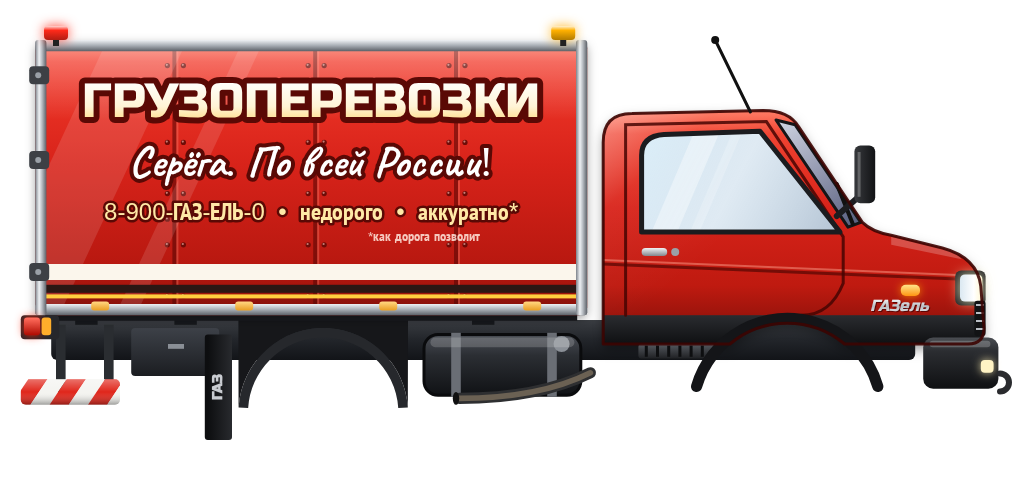
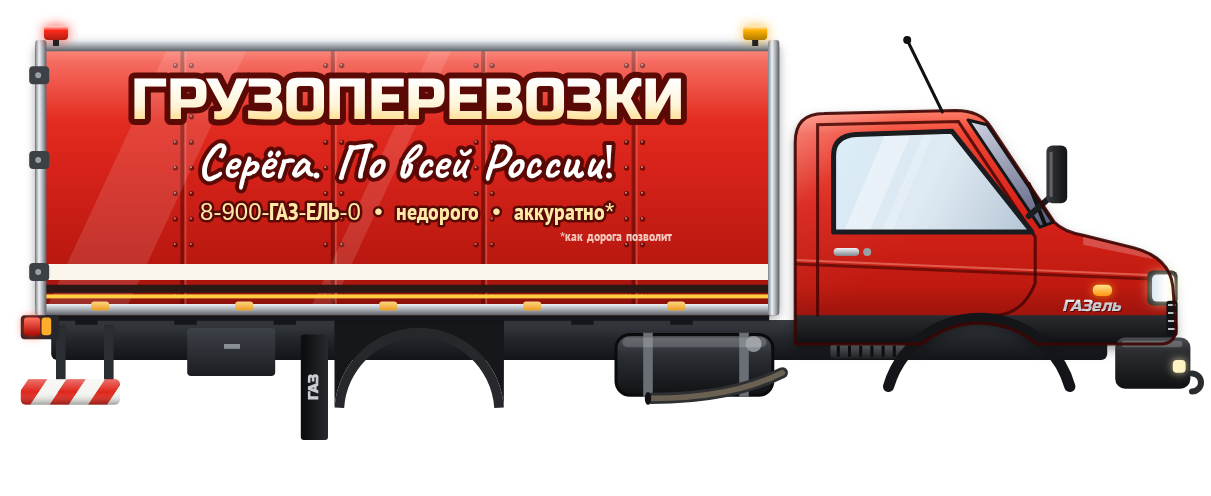
Газель с удлинённой базой: база 3,5 м, будка 4,65 м
Перерисован кузов и будка, обновлены физика (база, центр масс, корпус),
тюнинг, двери будки, сцены меню и гаража.

Claude-Session: https://claude.ai/code/session_015LMUnpRZnpEUypr75sENmz

diff --git a/js/assetmeta.js b/js/assetmeta.js
@@ -1,1 +1,1 @@
-window.ASSET_META = {"truck_body":{"file":"img/truck_body.png","w":1019,"h":496,"ppm":160,"ax":523.2,"ay":472,"geo":{"wheelR":0.37,"rearX":-1.25,"frontX":1.65,"wheelY":0.37,"boxX0":-3.05,"boxX1":0.4,"boxY0":0.98,"boxY1":2.7,"head":[1.18,1.8],"exhaust":[-0.48,0.46],"hingeX":-3.05}},"truck_interior":{"file":"img/truck_interior.png","w":1019,"h":496,"ppm":160,"ax":523.2,"ay":472},"wheel":{"file":"img/wheel.png","w":256,"h":256,"r":125},"wheel_chrome":{"file":"img/wheel_chrome.png","w":256,"h":256,"r":125},"door":{"file":"img/door.png","w":150,"h":276,"ppm":160},"serega_norm":{"file":"img/serega_norm.png","w":240,"h":240,"size":240},"serega_happy":{"file":"img/serega_happy.png","w":240,"h":240,"size":240},"serega_scared":{"file":"img/serega_scared.png","w":240,"h":240,"size":240},"serega_dizzy":{"file":"img/serega_dizzy.png","w":240,"h":240,"size":240},"serega_cool":{"file":"img/serega_cool.png","w":240,"h":240,"size":240},"it_watermelon":{"file":"img/it_watermelon.png","w":160,"h":160,"s":160},"it_eggs":{"file":"img/it_eggs.png","w":160,"h":160,"s":160},"it_egg":{"file":"img/it_egg.png","w":160,"h":160,"s":160},"it_fridge":{"file":"img/it_fridge.png","w":160,"h":160,"s":160},"it_honey":{"file":"img/it_honey.png","w":160,"h":160,"s":160},"it_box":{"file":"img/it_box.png","w":160,"h":160,"s":160},"it_carpet":{"file":"img/it_carpet.png","w":160,"h":160,"s":160},"it_sack":{"file":"img/it_sack.png","w":160,"h":160,"s":160},"it_potato":{"file":"img/it_potato.png","w":160,"h":160,"s":160},"it_accordion":{"file":"img/it_accordion.png","w":160,"h":160,"s":160},"it_firtree":{"file":"img/it_firtree.png","w":160,"h":160,"s":160},"it_fish":{"file":"img/it_fish.png","w":160,"h":160,"s":160},"it_samovar":{"file":"img/it_samovar.png","w":160,"h":160,"s":160},"it_pickles":{"file":"img/it_pickles.png","w":160,"h":160,"s":160},"it_tv":{"file":"img/it_tv.png","w":160,"h":160,"s":160},"it_canister":{"file":"img/it_canister.png","w":160,"h":160,"s":160},"it_coin":{"file":"img/it_coin.png","w":160,"h":160,"s":160},"it_wrench":{"file":"img/it_wrench.png","w":160,"h":160,"s":160},"it_cheburek":{"file":"img/it_cheburek.png","w":160,"h":160,"s":160},"it_magnet":{"file":"img/it_magnet.png","w":160,"h":160,"s":160},"it_cat0":{"file":"img/it_cat0.png","w":160,"h":160,"s":160},"it_cat1":{"file":"img/it_cat1.png","w":160,"h":160,"s":160},"it_goose0":{"file":"img/it_goose0.png","w":160,"h":160,"s":160},"it_goose1":{"file":"img/it_goose1.png","w":160,"h":160,"s":160},"cow0":{"file":"img/cow0.png","w":310,"h":185,"ppm":100,"ax":155,"ay":179},"cow1":{"file":"img/cow1.png","w":310,"h":185,"ppm":100,"ax":155,"ay":179},"cow2":{"file":"img/cow2.png","w":310,"h":185,"ppm":100,"ax":155,"ay":179},"cow3":{"file":"img/cow3.png","w":310,"h":185,"ppm":100,"ax":155,"ay":179},"gai0":{"file":"img/gai0.png","w":150,"h":200,"ppm":100,"ax":75,"ay":194},"gai1":{"file":"img/gai1.png","w":150,"h":200,"ppm":100,"ax":75,"ay":194},"dpscar":{"file":"img/dpscar.png","w":430,"h":170,"ppm":100,"ax":215,"ay":164},"booth":{"file":"img/booth.png","w":270,"h":245,"ppm":100,"ax":135,"ay":239},"moose0":{"file":"img/moose0.png","w":340,"h":270,"ppm":100,"ax":170,"ay":264},"moose1":{"file":"img/moose1.png","w":340,"h":270,"ppm":100,"ax":170,"ay":264},"moose2":{"file":"img/moose2.png","w":340,"h":270,"ppm":100,"ax":170,"ay":264},"bear0":{"file":"img/bear0.png","w":180,"h":225,"ppm":100,"ax":90,"ay":219},"bear1":{"file":"img/bear1.png","w":180,"h":225,"ppm":100,"ax":90,"ay":219},"dog0":{"file":"img/dog0.png","w":140,"h":85,"ppm":100,"ax":70,"ay":79},"dog1":{"file":"img/dog1.png","w":140,"h":85,"ppm":100,"ax":70,"ay":79},"babushka0":{"file":"img/babushka0.png","w":130,"h":165,"ppm":100,"ax":65,"ay":159},"babushka1":{"file":"img/babushka1.png","w":130,"h":165,"ppm":100,"ax":65,"ay":159},"sign_speed":{"file":"img/sign_speed.png","w":100,"h":270,"ppm":100,"ax":50,"ay":264},"sign_bumps":{"file":"img/sign_bumps.png","w":110,"h":270,"ppm":100,"ax":55,"ay":264},"sign_animals":{"file":"img/sign_animals.png","w":110,"h":270,"ppm":100,"ax":55,"ay":264},"sign_cow":{"file":"img/sign_cow.png","w":110,"h":270,"ppm":100,"ax":55,"ay":264},"sign_works":{"file":"img/sign_works.png","w":110,"h":270,"ppm":100,"ax":55,"ay":264},"sign_gas":{"file":"img/sign_gas.png","w":90,"h":270,"ppm":100,"ax":45,"ay":264},"kmpost":{"file":"img/kmpost.png","w":40,"h":110,"ppm":100,"ax":20,"ay":104},"city_sign":{"file":"img/city_sign.png","w":280,"h":250,"ppm":100,"ax":140,"ay":244},"warehouse":{"file":"img/warehouse.png","w":1100,"h":630,"ppm":100,"ax":550,"ay":624},"azs":{"file":"img/azs.png","w":1020,"h":480,"ppm":100,"ax":510,"ay":474},"cafe":{"file":"img/cafe.png","w":700,"h":410,"ppm":100,"ax":350,"ay":404},"busstop":{"file":"img/busstop.png","w":340,"h":280,"ppm":100,"ax":170,"ay":274},"ad_tire":{"file":"img/ad_tire.png","w":490,"h":520,"ppm":100,"ax":245,"ay":514},"ad_shashlik":{"file":"img/ad_shashlik.png","w":490,"h":520,"ppm":100,"ax":245,"ay":514},"ad_garage":{"file":"img/ad_garage.png","w":490,"h":520,"ppm":100,"ax":245,"ay":514},"ad_luda":{"file":"img/ad_luda.png","w":490,"h":520,"ppm":100,"ax":245,"ay":514},"ad_honey":{"file":"img/ad_honey.png","w":490,"h":520,"ppm":100,"ax":245,"ay":514},"ad_gazel":{"file":"img/ad_gazel.png","w":490,"h":520,"ppm":100,"ax":245,"ay":514},"ad_motel":{"file":"img/ad_motel.png","w":490,"h":520,"ppm":100,"ax":245,"ay":514},"ad_coffee":{"file":"img/ad_coffee.png","w":490,"h":520,"ppm":100,"ax":245,"ay":514},"cone":{"file":"img/cone.png","w":60,"h":85,"ppm":100,"ax":30,"ay":79},"logs":{"file":"img/logs.png","w":260,"h":95,"ppm":100,"ax":130,"ay":89},"rock":{"file":"img/rock.png","w":170,"h":85,"ppm":100,"ax":85,"ay":79},"ramp_sign":{"file":"img/ramp_sign.png","w":180,"h":125,"ppm":100,"ax":90,"ay":119},"barrier":{"file":"img/barrier.png","w":400,"h":90,"ppm":100,"ax":200,"ay":84},"bridge_rail":{"file":"img/bridge_rail.png","w":400,"h":120,"ppm":100,"ax":200,"ay":114},"bridge_pillar":{"file":"img/bridge_pillar.png","w":180,"h":620,"ppm":100,"ax":90,"ay":614},"tower":{"file":"img/tower.png","w":340,"h":930,"ppm":100,"ax":170,"ay":924},"grass_summer":{"file":"img/grass_summer.png","w":512,"h":96,"n":4},"grass_autumn":{"file":"img/grass_autumn.png","w":512,"h":96,"n":4},"grass_dry":{"file":"img/grass_dry.png","w":512,"h":96,"n":4},"grass_snow":{"file":"img/grass_snow.png","w":512,"h":96,"n":4},"grass_ural":{"file":"img/grass_ural.png","w":512,"h":96,"n":4},"bg_summer_far":{"file":"img/bg_summer_far.jpg","w":2048,"h":768,"horizon":0.72},"bg_summer_mid":{"file":"img/bg_summer_mid.png","w":2048,"h":512},"bg_summer_near":{"file":"img/bg_summer_near.png","w":2048,"h":320},"thumb_summer":{"file":"img/thumb_summer.jpg","w":400,"h":225},"bg_volga_far":{"file":"img/bg_volga_far.jpg","w":2048,"h":768,"horizon":0.72},"bg_volga_mid":{"file":"img/bg_volga_mid.png","w":2048,"h":512},"bg_volga_near":{"file":"img/bg_volga_near.png","w":2048,"h":320},"thumb_volga":{"file":"img/thumb_volga.jpg","w":400,"h":225},"bg_ural_far":{"file":"img/bg_ural_far.jpg","w":2048,"h":768,"horizon":0.72},"bg_ural_mid":{"file":"img/bg_ural_mid.png","w":2048,"h":512},"bg_ural_near":{"file":"img/bg_ural_near.png","w":2048,"h":320},"thumb_ural":{"file":"img/thumb_ural.jpg","w":400,"h":225},"bg_steppe_far":{"file":"img/bg_steppe_far.jpg","w":2048,"h":768,"horizon":0.72},"bg_steppe_mid":{"file":"img/bg_steppe_mid.png","w":2048,"h":512},"bg_steppe_near":{"file":"img/bg_steppe_near.png","w":2048,"h":320},"thumb_steppe":{"file":"img/thumb_steppe.jpg","w":400,"h":225},"bg_taiga_far":{"file":"img/bg_taiga_far.jpg","w":2048,"h":768,"horizon":0.72},"bg_taiga_mid":{"file":"img/bg_taiga_mid.png","w":2048,"h":512},"bg_taiga_near":{"file":"img/bg_taiga_near.png","w":2048,"h":320},"thumb_taiga":{"file":"img/thumb_taiga.jpg","w":400,"h":225},"bg_baikal_far":{"file":"img/bg_baikal_far.jpg","w":2048,"h":768,"horizon":0.72},"bg_baikal_mid":{"file":"img/bg_baikal_mid.png","w":2048,"h":512},"bg_baikal_near":{"file":"img/bg_baikal_near.png","w":2048,"h":320},"thumb_baikal":{"file":"img/thumb_baikal.jpg","w":400,"h":225},"bg_primorye_far":{"file":"img/bg_primorye_far.jpg","w":2048,"h":768,"horizon":0.72},"bg_primorye_mid":{"file":"img/bg_primorye_mid.png","w":2048,"h":512},"bg_primorye_near":{"file":"img/bg_primorye_near.png","w":2048,"h":320},"thumb_primorye":{"file":"img/thumb_primorye.jpg","w":400,"h":225},"tex_soil":{"file":"img/tex_soil.jpg","w":512,"h":512},"tex_clay":{"file":"img/tex_clay.jpg","w":512,"h":512},"tex_rock":{"file":"img/tex_rock.jpg","w":512,"h":512},"tex_sand":{"file":"img/tex_sand.jpg","w":512,"h":512},"tex_snow":{"file":"img/tex_snow.jpg","w":512,"h":512},"tex_asphalt":{"file":"img/tex_asphalt.jpg","w":512,"h":512},"tex_dirt":{"file":"img/tex_dirt.jpg","w":512,"h":512},"tex_snowroad":{"file":"img/tex_snowroad.jpg","w":512,"h":512},"tex_ice":{"file":"img/tex_ice.jpg","w":512,"h":512},"tex_mud":{"file":"img/tex_mud.jpg","w":512,"h":512},"logo":{"file":"img/logo.png","w":1100,"h":520},"pedal_gas":{"file":"img/pedal_gas.png","w":200,"h":320},"pedal_brake":{"file":"img/pedal_brake.png","w":240,"h":260},"paper":{"file":"img/paper.jpg","w":512,"h":512},"stamp_ok":{"file":"img/stamp_ok.png","w":420,"h":200},"stamp_fail":{"file":"img/stamp_fail.png","w":420,"h":200},"stamp_final":{"file":"img/stamp_final.png","w":420,"h":200}};
+window.ASSET_META = {"truck_body":{"file":"img/truck_body.png","w":1211,"h":496,"ppm":160,"ax":715.2,"ay":472,"geo":{"wheelR":0.37,"rearX":-1.85,"frontX":1.65,"wheelY":0.37,"boxX0":-4.25,"boxX1":0.4,"boxY0":0.98,"boxY1":2.7,"head":[1.18,1.8],"exhaust":[-0.48,0.46],"hingeX":-4.25}},"truck_interior":{"file":"img/truck_interior.png","w":1211,"h":496,"ppm":160,"ax":715.2,"ay":472},"wheel":{"file":"img/wheel.png","w":256,"h":256,"r":125},"wheel_chrome":{"file":"img/wheel_chrome.png","w":256,"h":256,"r":125},"door":{"file":"img/door.png","w":150,"h":276,"ppm":160},"serega_norm":{"file":"img/serega_norm.png","w":240,"h":240,"size":240},"serega_happy":{"file":"img/serega_happy.png","w":240,"h":240,"size":240},"serega_scared":{"file":"img/serega_scared.png","w":240,"h":240,"size":240},"serega_dizzy":{"file":"img/serega_dizzy.png","w":240,"h":240,"size":240},"serega_cool":{"file":"img/serega_cool.png","w":240,"h":240,"size":240},"it_watermelon":{"file":"img/it_watermelon.png","w":160,"h":160,"s":160},"it_eggs":{"file":"img/it_eggs.png","w":160,"h":160,"s":160},"it_egg":{"file":"img/it_egg.png","w":160,"h":160,"s":160},"it_fridge":{"file":"img/it_fridge.png","w":160,"h":160,"s":160},"it_honey":{"file":"img/it_honey.png","w":160,"h":160,"s":160},"it_box":{"file":"img/it_box.png","w":160,"h":160,"s":160},"it_carpet":{"file":"img/it_carpet.png","w":160,"h":160,"s":160},"it_sack":{"file":"img/it_sack.png","w":160,"h":160,"s":160},"it_potato":{"file":"img/it_potato.png","w":160,"h":160,"s":160},"it_accordion":{"file":"img/it_accordion.png","w":160,"h":160,"s":160},"it_firtree":{"file":"img/it_firtree.png","w":160,"h":160,"s":160},"it_fish":{"file":"img/it_fish.png","w":160,"h":160,"s":160},"it_samovar":{"file":"img/it_samovar.png","w":160,"h":160,"s":160},"it_pickles":{"file":"img/it_pickles.png","w":160,"h":160,"s":160},"it_tv":{"file":"img/it_tv.png","w":160,"h":160,"s":160},"it_canister":{"file":"img/it_canister.png","w":160,"h":160,"s":160},"it_coin":{"file":"img/it_coin.png","w":160,"h":160,"s":160},"it_wrench":{"file":"img/it_wrench.png","w":160,"h":160,"s":160},"it_cheburek":{"file":"img/it_cheburek.png","w":160,"h":160,"s":160},"it_magnet":{"file":"img/it_magnet.png","w":160,"h":160,"s":160},"it_cat0":{"file":"img/it_cat0.png","w":160,"h":160,"s":160},"it_cat1":{"file":"img/it_cat1.png","w":160,"h":160,"s":160},"it_goose0":{"file":"img/it_goose0.png","w":160,"h":160,"s":160},"it_goose1":{"file":"img/it_goose1.png","w":160,"h":160,"s":160},"cow0":{"file":"img/cow0.png","w":310,"h":185,"ppm":100,"ax":155,"ay":179},"cow1":{"file":"img/cow1.png","w":310,"h":185,"ppm":100,"ax":155,"ay":179},"cow2":{"file":"img/cow2.png","w":310,"h":185,"ppm":100,"ax":155,"ay":179},"cow3":{"file":"img/cow3.png","w":310,"h":185,"ppm":100,"ax":155,"ay":179},"gai0":{"file":"img/gai0.png","w":150,"h":200,"ppm":100,"ax":75,"ay":194},"gai1":{"file":"img/gai1.png","w":150,"h":200,"ppm":100,"ax":75,"ay":194},"dpscar":{"file":"img/dpscar.png","w":430,"h":170,"ppm":100,"ax":215,"ay":164},"booth":{"file":"img/booth.png","w":270,"h":245,"ppm":100,"ax":135,"ay":239},"moose0":{"file":"img/moose0.png","w":340,"h":270,"ppm":100,"ax":170,"ay":264},"moose1":{"file":"img/moose1.png","w":340,"h":270,"ppm":100,"ax":170,"ay":264},"moose2":{"file":"img/moose2.png","w":340,"h":270,"ppm":100,"ax":170,"ay":264},"bear0":{"file":"img/bear0.png","w":180,"h":225,"ppm":100,"ax":90,"ay":219},"bear1":{"file":"img/bear1.png","w":180,"h":225,"ppm":100,"ax":90,"ay":219},"dog0":{"file":"img/dog0.png","w":140,"h":85,"ppm":100,"ax":70,"ay":79},"dog1":{"file":"img/dog1.png","w":140,"h":85,"ppm":100,"ax":70,"ay":79},"babushka0":{"file":"img/babushka0.png","w":130,"h":165,"ppm":100,"ax":65,"ay":159},"babushka1":{"file":"img/babushka1.png","w":130,"h":165,"ppm":100,"ax":65,"ay":159},"sign_speed":{"file":"img/sign_speed.png","w":100,"h":270,"ppm":100,"ax":50,"ay":264},"sign_bumps":{"file":"img/sign_bumps.png","w":110,"h":270,"ppm":100,"ax":55,"ay":264},"sign_animals":{"file":"img/sign_animals.png","w":110,"h":270,"ppm":100,"ax":55,"ay":264},"sign_cow":{"file":"img/sign_cow.png","w":110,"h":270,"ppm":100,"ax":55,"ay":264},"sign_works":{"file":"img/sign_works.png","w":110,"h":270,"ppm":100,"ax":55,"ay":264},"sign_gas":{"file":"img/sign_gas.png","w":90,"h":270,"ppm":100,"ax":45,"ay":264},"kmpost":{"file":"img/kmpost.png","w":40,"h":110,"ppm":100,"ax":20,"ay":104},"city_sign":{"file":"img/city_sign.png","w":280,"h":250,"ppm":100,"ax":140,"ay":244},"warehouse":{"file":"img/warehouse.png","w":1100,"h":630,"ppm":100,"ax":550,"ay":624},"azs":{"file":"img/azs.png","w":1020,"h":480,"ppm":100,"ax":510,"ay":474},"cafe":{"file":"img/cafe.png","w":700,"h":410,"ppm":100,"ax":350,"ay":404},"busstop":{"file":"img/busstop.png","w":340,"h":280,"ppm":100,"ax":170,"ay":274},"ad_tire":{"file":"img/ad_tire.png","w":490,"h":520,"ppm":100,"ax":245,"ay":514},"ad_shashlik":{"file":"img/ad_shashlik.png","w":490,"h":520,"ppm":100,"ax":245,"ay":514},"ad_garage":{"file":"img/ad_garage.png","w":490,"h":520,"ppm":100,"ax":245,"ay":514},"ad_luda":{"file":"img/ad_luda.png","w":490,"h":520,"ppm":100,"ax":245,"ay":514},"ad_honey":{"file":"img/ad_honey.png","w":490,"h":520,"ppm":100,"ax":245,"ay":514},"ad_gazel":{"file":"img/ad_gazel.png","w":490,"h":520,"ppm":100,"ax":245,"ay":514},"ad_motel":{"file":"img/ad_motel.png","w":490,"h":520,"ppm":100,"ax":245,"ay":514},"ad_coffee":{"file":"img/ad_coffee.png","w":490,"h":520,"ppm":100,"ax":245,"ay":514},"cone":{"file":"img/cone.png","w":60,"h":85,"ppm":100,"ax":30,"ay":79},"logs":{"file":"img/logs.png","w":260,"h":95,"ppm":100,"ax":130,"ay":89},"rock":{"file":"img/rock.png","w":170,"h":85,"ppm":100,"ax":85,"ay":79},"ramp_sign":{"file":"img/ramp_sign.png","w":180,"h":125,"ppm":100,"ax":90,"ay":119},"barrier":{"file":"img/barrier.png","w":400,"h":90,"ppm":100,"ax":200,"ay":84},"bridge_rail":{"file":"img/bridge_rail.png","w":400,"h":120,"ppm":100,"ax":200,"ay":114},"bridge_pillar":{"file":"img/bridge_pillar.png","w":180,"h":620,"ppm":100,"ax":90,"ay":614},"tower":{"file":"img/tower.png","w":340,"h":930,"ppm":100,"ax":170,"ay":924},"grass_summer":{"file":"img/grass_summer.png","w":512,"h":96,"n":4},"grass_autumn":{"file":"img/grass_autumn.png","w":512,"h":96,"n":4},"grass_dry":{"file":"img/grass_dry.png","w":512,"h":96,"n":4},"grass_snow":{"file":"img/grass_snow.png","w":512,"h":96,"n":4},"grass_ural":{"file":"img/grass_ural.png","w":512,"h":96,"n":4},"bg_summer_far":{"file":"img/bg_summer_far.jpg","w":2048,"h":768,"horizon":0.72},"bg_summer_mid":{"file":"img/bg_summer_mid.png","w":2048,"h":512},"bg_summer_near":{"file":"img/bg_summer_near.png","w":2048,"h":320},"thumb_summer":{"file":"img/thumb_summer.jpg","w":400,"h":225},"bg_volga_far":{"file":"img/bg_volga_far.jpg","w":2048,"h":768,"horizon":0.72},"bg_volga_mid":{"file":"img/bg_volga_mid.png","w":2048,"h":512},"bg_volga_near":{"file":"img/bg_volga_near.png","w":2048,"h":320},"thumb_volga":{"file":"img/thumb_volga.jpg","w":400,"h":225},"bg_ural_far":{"file":"img/bg_ural_far.jpg","w":2048,"h":768,"horizon":0.72},"bg_ural_mid":{"file":"img/bg_ural_mid.png","w":2048,"h":512},"bg_ural_near":{"file":"img/bg_ural_near.png","w":2048,"h":320},"thumb_ural":{"file":"img/thumb_ural.jpg","w":400,"h":225},"bg_steppe_far":{"file":"img/bg_steppe_far.jpg","w":2048,"h":768,"horizon":0.72},"bg_steppe_mid":{"file":"img/bg_steppe_mid.png","w":2048,"h":512},"bg_steppe_near":{"file":"img/bg_steppe_near.png","w":2048,"h":320},"thumb_steppe":{"file":"img/thumb_steppe.jpg","w":400,"h":225},"bg_taiga_far":{"file":"img/bg_taiga_far.jpg","w":2048,"h":768,"horizon":0.72},"bg_taiga_mid":{"file":"img/bg_taiga_mid.png","w":2048,"h":512},"bg_taiga_near":{"file":"img/bg_taiga_near.png","w":2048,"h":320},"thumb_taiga":{"file":"img/thumb_taiga.jpg","w":400,"h":225},"bg_baikal_far":{"file":"img/bg_baikal_far.jpg","w":2048,"h":768,"horizon":0.72},"bg_baikal_mid":{"file":"img/bg_baikal_mid.png","w":2048,"h":512},"bg_baikal_near":{"file":"img/bg_baikal_near.png","w":2048,"h":320},"thumb_baikal":{"file":"img/thumb_baikal.jpg","w":400,"h":225},"bg_primorye_far":{"file":"img/bg_primorye_far.jpg","w":2048,"h":768,"horizon":0.72},"bg_primorye_mid":{"file":"img/bg_primorye_mid.png","w":2048,"h":512},"bg_primorye_near":{"file":"img/bg_primorye_near.png","w":2048,"h":320},"thumb_primorye":{"file":"img/thumb_primorye.jpg","w":400,"h":225},"tex_soil":{"file":"img/tex_soil.jpg","w":512,"h":512},"tex_clay":{"file":"img/tex_clay.jpg","w":512,"h":512},"tex_rock":{"file":"img/tex_rock.jpg","w":512,"h":512},"tex_sand":{"file":"img/tex_sand.jpg","w":512,"h":512},"tex_snow":{"file":"img/tex_snow.jpg","w":512,"h":512},"tex_asphalt":{"file":"img/tex_asphalt.jpg","w":512,"h":512},"tex_dirt":{"file":"img/tex_dirt.jpg","w":512,"h":512},"tex_snowroad":{"file":"img/tex_snowroad.jpg","w":512,"h":512},"tex_ice":{"file":"img/tex_ice.jpg","w":512,"h":512},"tex_mud":{"file":"img/tex_mud.jpg","w":512,"h":512},"logo":{"file":"img/logo.png","w":1100,"h":520},"pedal_gas":{"file":"img/pedal_gas.png","w":200,"h":320},"pedal_brake":{"file":"img/pedal_brake.png","w":240,"h":260},"paper":{"file":"img/paper.jpg","w":512,"h":512},"stamp_ok":{"file":"img/stamp_ok.png","w":420,"h":200},"stamp_fail":{"file":"img/stamp_fail.png","w":420,"h":200},"stamp_final":{"file":"img/stamp_final.png","w":420,"h":200}};

diff --git a/tools/art/truck.js b/tools/art/truck.js
@@ -1,14 +1,14 @@
 // Красная Газель с красной будкой: кузов, салон, колёса, двери, Серёга
 'use strict';
-const TK = { P: 160, M: 24, X0: -3.12, X1: 2.95, Y1: 2.80 };
+const TK = { P: 160, M: 24, X0: -4.32, X1: 2.95, Y1: 2.80 };
 TK.W = Math.round((TK.X1 - TK.X0) * TK.P + TK.M * 2);
 TK.H = Math.round(TK.Y1 * TK.P + TK.M * 2);
 TK.ax = TK.M - TK.X0 * TK.P; TK.ay = TK.M + TK.Y1 * TK.P;   // пиксель точки (0,0) — земля под началом координат
 const tx = x => TK.ax + x * TK.P, ty = y => TK.ay - y * TK.P, tp = (x, y) => [tx(x), ty(y)];
 const GEO = {
-  wheelR: 0.37, rearX: -1.25, frontX: 1.65, wheelY: 0.37,
-  boxX0: -3.05, boxX1: 0.40, boxY0: 0.98, boxY1: 2.70,
-  head: [1.18, 1.80], exhaust: [-0.48, 0.46], hingeX: -3.05
+  wheelR: 0.37, rearX: -1.85, frontX: 1.65, wheelY: 0.37,
+  boxX0: -4.25, boxX1: 0.40, boxY0: 0.98, boxY1: 2.70,
+  head: [1.18, 1.80], exhaust: [-0.48, 0.46], hingeX: -4.25
 };
 const RED = '#d8231a', RED_L = '#ff5a44', RED_D = '#8a120c';
 
@@ -53,14 +53,14 @@ function drawTruckBody(ctx, opt) {
   const P = TK.P;
   // ---------- рама ----------
   ctx.fillStyle = lg(ctx, 0, ty(0.95), 0, ty(0.70), [[0, '#3a3d42'], [0.5, '#22252a'], [1, '#121418']]);
-  rrect(ctx, tx(-2.95), ty(0.95), (2.45 + 2.95) * P, 0.25 * P, 6); ctx.fill();
-  for (let x = -2.8; x < 0.3; x += 0.62) { ctx.fillStyle = '#16181c'; ctx.fillRect(tx(x), ty(1.0), 0.14 * P, 0.08 * P); }
+  rrect(ctx, tx(-4.15), ty(0.95), (2.45 + 4.15) * P, 0.25 * P, 6); ctx.fill();
+  for (let x = -4.0; x < 0.3; x += 0.62) { ctx.fillStyle = '#16181c'; ctx.fillRect(tx(x), ty(1.0), 0.14 * P, 0.08 * P); }
   // заднее противоподкатное — полосатое
-  ctx.fillStyle = '#2a2d31'; ctx.fillRect(tx(-2.92), ty(0.92), 0.06 * P, 0.42 * P); ctx.fillRect(tx(-2.62), ty(0.92), 0.06 * P, 0.42 * P);
-  ctx.save(); rrect(ctx, tx(-3.14), ty(0.58), 0.62 * P, 0.16 * P, 5); ctx.clip();
-  for (let i = 0; i < 8; i++) { ctx.fillStyle = i % 2 ? '#f4f4f0' : '#e0261b'; poly(ctx, [[tx(-3.2 + i * 0.12), ty(0.42)], [tx(-3.2 + i * 0.12 + 0.12), ty(0.42)], [tx(-3.2 + i * 0.12 + 0.24), ty(0.6)], [tx(-3.2 + i * 0.12 + 0.12), ty(0.6)]]); ctx.fill(); }
+  ctx.fillStyle = '#2a2d31'; ctx.fillRect(tx(-4.12), ty(0.92), 0.06 * P, 0.42 * P); ctx.fillRect(tx(-3.82), ty(0.92), 0.06 * P, 0.42 * P);
+  ctx.save(); rrect(ctx, tx(-4.34), ty(0.58), 0.62 * P, 0.16 * P, 5); ctx.clip();
+  for (let i = 0; i < 8; i++) { ctx.fillStyle = i % 2 ? '#f4f4f0' : '#e0261b'; poly(ctx, [[tx(-4.4 + i * 0.12), ty(0.42)], [tx(-4.4 + i * 0.12 + 0.12), ty(0.42)], [tx(-4.4 + i * 0.12 + 0.24), ty(0.6)], [tx(-4.4 + i * 0.12 + 0.12), ty(0.6)]]); ctx.fill(); }
   ctx.fillStyle = lg(ctx, 0, ty(0.58), 0, ty(0.42), [[0, 'rgba(255,255,255,.35)'], [0.5, 'rgba(255,255,255,0)'], [1, 'rgba(0,0,0,.35)']]);
-  ctx.fillRect(tx(-3.2), ty(0.6), P, 0.2 * P); ctx.restore();
+  ctx.fillRect(tx(-4.4), ty(0.6), P, 0.2 * P); ctx.restore();
   // бензобак
   ctx.fillStyle = lg(ctx, 0, ty(0.86), 0, ty(0.48), [[0, '#4a4e55'], [0.35, '#2b2e33'], [1, '#101215']]);
   rrect(ctx, tx(-0.62), ty(0.86), 0.98 * P, 0.38 * P, 14); ctx.fill();
@@ -75,8 +75,8 @@ function drawTruckBody(ctx, opt) {
   ctx.fillStyle = '#111'; ellipse(ctx, tx(-0.42), ty(0.46), 0.02 * P, 0.04 * P); ctx.fill();
   // ящик ЗИП
   ctx.fillStyle = lg(ctx, 0, ty(0.9), 0, ty(0.6), [[0, '#3d4148'], [1, '#1b1d21']]);
-  rrect(ctx, tx(-2.45), ty(0.90), 0.55 * P, 0.30 * P, 4); ctx.fill();
-  ctx.fillStyle = '#8a8f96'; ctx.fillRect(tx(-2.22), ty(0.80), 0.1 * P, 0.03 * P);
+  rrect(ctx, tx(-3.3), ty(0.90), 0.55 * P, 0.30 * P, 4); ctx.fill();
+  ctx.fillStyle = '#8a8f96'; ctx.fillRect(tx(-3.07), ty(0.80), 0.1 * P, 0.03 * P);
 
   // ---------- задний подкрылок + брызговик ----------
   const R = GEO.rearX;
@@ -99,7 +99,7 @@ function drawTruckBody(ctx, opt) {
   ctx.fillStyle = lg(ctx, 0, by0, 0, by1, [[0, '#ff6a52'], [0.08, '#f2392a'], [0.45, RED], [0.85, '#b5170f'], [1, '#7d0f09']]);
   rrect(ctx, bx0 + 4, by0 + 4, bx1 - bx0 - 8, by1 - by0 - 8, 6); ctx.fill();
   // сэндвич-панели: вертикальные швы с заклёпками
-  const seams = [-2.18, -1.30, -0.42];
+  const seams = [-3.33, -2.39, -1.45, -0.51];
   seams.forEach(x => {
     ctx.fillStyle = 'rgba(80,6,3,.55)'; ctx.fillRect(tx(x) - 2, by0 + 8, 4, by1 - by0 - 16);
     ctx.fillStyle = 'rgba(255,140,120,.35)'; ctx.fillRect(tx(x) + 2, by0 + 8, 2, by1 - by0 - 16);
@@ -113,7 +113,7 @@ function drawTruckBody(ctx, opt) {
   ctx.fillStyle = lg(ctx, 0, by0, 0, by0 + 0.5 * P, [[0, 'rgba(255,255,255,.35)'], [1, 'rgba(255,255,255,0)']]);
   ctx.fillRect(bx0, by0, bx1 - bx0, 0.5 * P);
   ctx.globalAlpha = 0.12; ctx.fillStyle = '#fff';
-  poly(ctx, [[tx(-2.6), by0], [tx(-2.1), by0], [tx(-2.9), by1], [tx(-3.4), by1]]); ctx.fill();
+  poly(ctx, [[tx(-3.4), by0], [tx(-2.9), by0], [tx(-3.7), by1], [tx(-4.2), by1]]); ctx.fill();
   poly(ctx, [[tx(-1.75), by0], [tx(-1.62), by0], [tx(-2.42), by1], [tx(-2.55), by1]]); ctx.fill();
   ctx.globalAlpha = 1;
   // белая полоса + тёмная полоса снизу
@@ -139,23 +139,23 @@ function drawTruckBody(ctx, opt) {
     ctx.fillStyle = '#222'; ctx.fillRect(x - 3, y + 6, 6, 6);
   };
   lamp(tx(0.25), by0 - 6, '#ffb000', 'rgba(255,170,0,.8)');
-  lamp(tx(-2.92), by0 - 6, '#ff2a1a', 'rgba(255,30,10,.8)');
+  lamp(tx(-4.12), by0 - 6, '#ff2a1a', 'rgba(255,30,10,.8)');
   // боковые катафоты
-  for (let x = -2.7; x < 0.3; x += 0.9) { ctx.fillStyle = lg(ctx, 0, ty(1.06), 0, ty(0.99), [[0, '#ffd27a'], [1, '#e08a00']]); rrect(ctx, tx(x), ty(1.065), 18, 9, 3); ctx.fill(); }
+  for (let x = -3.9; x < 0.3; x += 0.9) { ctx.fillStyle = lg(ctx, 0, ty(1.06), 0, ty(0.99), [[0, '#ffd27a'], [1, '#e08a00']]); rrect(ctx, tx(x), ty(1.065), 18, 9, 3); ctx.fill(); }
   // задний фонарь
-  ctx.fillStyle = '#26272b'; rrect(ctx, tx(-3.14), ty(0.98), 0.24 * P, 0.15 * P, 4); ctx.fill();
-  withShadow(ctx, 'rgba(255,30,0,.9)', 10, 0, 0, () => { ctx.fillStyle = lg(ctx, 0, ty(0.96), 0, ty(0.86), [[0, '#ff6b5b'], [1, '#b10f05']]); rrect(ctx, tx(-3.12), ty(0.965), 0.10 * P, 0.11 * P, 3); ctx.fill(); });
-  ctx.fillStyle = '#ffae2b'; rrect(ctx, tx(-3.01), ty(0.965), 0.06 * P, 0.11 * P, 3); ctx.fill();
+  ctx.fillStyle = '#26272b'; rrect(ctx, tx(-4.34), ty(0.98), 0.24 * P, 0.15 * P, 4); ctx.fill();
+  withShadow(ctx, 'rgba(255,30,0,.9)', 10, 0, 0, () => { ctx.fillStyle = lg(ctx, 0, ty(0.96), 0, ty(0.86), [[0, '#ff6b5b'], [1, '#b10f05']]); rrect(ctx, tx(-4.32), ty(0.965), 0.10 * P, 0.11 * P, 3); ctx.fill(); });
+  ctx.fillStyle = '#ffae2b'; rrect(ctx, tx(-4.21), ty(0.965), 0.06 * P, 0.11 * P, 3); ctx.fill();
 
   // надписи на будке
   if (!opt.plain) {
     const cx = (bx0 + bx1) / 2;
     ctx.save();
-    ctx.font = (0.30 * P) + 'px ' + FONT_T; ctx.textAlign = 'center'; ctx.textBaseline = 'middle';
+    ctx.font = (0.36 * P) + 'px ' + FONT_T; ctx.textAlign = 'center'; ctx.textBaseline = 'middle';
     ctx.lineJoin = 'round'; ctx.strokeStyle = '#5a0905'; ctx.lineWidth = 12; ctx.strokeText('ГРУЗОПЕРЕВОЗКИ', cx, ty(2.30));
     ctx.fillStyle = lg(ctx, 0, ty(2.45), 0, ty(2.15), [[0, '#ffffff'], [0.55, '#fff4d6'], [1, '#ffd36a']]);
     ctx.fillText('ГРУЗОПЕРЕВОЗКИ', cx, ty(2.30));
-    ctx.font = (0.27 * P) + 'px ' + FONT_H; ctx.strokeStyle = '#5a0905'; ctx.lineWidth = 8;
+    ctx.font = (0.31 * P) + 'px ' + FONT_H; ctx.strokeStyle = '#5a0905'; ctx.lineWidth = 8;
     ctx.strokeText('Серёга. По всей России!', cx, ty(1.92)); ctx.fillStyle = '#fff'; ctx.fillText('Серёга. По всей России!', cx, ty(1.92));
     ctx.font = (0.15 * P) + 'px ' + FONT_N; ctx.lineWidth = 5;
     const ph = '8-900-ГАЗ-ЕЛЬ-0  •  недорого  •  аккуратно*';

diff --git a/js/render.js b/js/render.js
@@ -272,9 +272,9 @@ function drawTruckBody(px, py, a, opt) {
   ctx.drawImage(IMG.truck_body, ox, oy);
   // тюнинг
   if (opt.cos.includes('spoiler')) {
-    ctx.fillStyle = '#1a1b1e'; ctx.fillRect(TXp(-2.95), TYp(2.98), 0.06 * P, 0.3 * P); ctx.fillRect(TXp(-2.45), TYp(2.98), 0.06 * P, 0.3 * P);
+    ctx.fillStyle = '#1a1b1e'; ctx.fillRect(TXp(-4.15), TYp(2.98), 0.06 * P, 0.3 * P); ctx.fillRect(TXp(-3.65), TYp(2.98), 0.06 * P, 0.3 * P);
     const g = ctx.createLinearGradient(0, TYp(3.08), 0, TYp(2.92)); g.addColorStop(0, '#ff5a44'); g.addColorStop(1, '#8a120c');
-    ctx.fillStyle = g; ctx.beginPath(); ctx.moveTo(TXp(-3.2), TYp(3.1)); ctx.lineTo(TXp(-2.25), TYp(3.04)); ctx.lineTo(TXp(-2.25), TYp(2.95)); ctx.lineTo(TXp(-3.2), TYp(2.98)); ctx.closePath(); ctx.fill();
+    ctx.fillStyle = g; ctx.beginPath(); ctx.moveTo(TXp(-4.4), TYp(3.1)); ctx.lineTo(TXp(-3.45), TYp(3.04)); ctx.lineTo(TXp(-3.45), TYp(2.95)); ctx.lineTo(TXp(-4.4), TYp(2.98)); ctx.closePath(); ctx.fill();
   }
   if (opt.cos.includes('lights')) {
     ctx.fillStyle = '#16171a'; ctx.fillRect(TXp(0.66), TYp(2.40), 0.92 * P, 0.1 * P);
@@ -301,9 +301,9 @@ function drawTruckBody(px, py, a, opt) {
   if (opt.door > 0) {
     const ang = opt.door * Math.PI * 0.48, w = Math.sin(ang) * 0.9 * P, h = 1.72 * P;
     ctx.save(); ctx.globalAlpha = 1;
-    ctx.fillStyle = 'rgba(20,10,8,.85)'; ctx.fillRect(TXp(-3.05), TYp(2.66), 0.08 * P, h - 6);
-    if (IMG.door) ctx.drawImage(IMG.door, TXp(-3.05) - w, TYp(2.70), w, h);
-    ctx.fillStyle = 'rgba(0,0,0,' + (0.35 * Math.cos(ang)) + ')'; ctx.fillRect(TXp(-3.05) - w, TYp(2.70), w, h);
+    ctx.fillStyle = 'rgba(20,10,8,.85)'; ctx.fillRect(TXp(-4.25), TYp(2.66), 0.08 * P, h - 6);
+    if (IMG.door) ctx.drawImage(IMG.door, TXp(-4.25) - w, TYp(2.70), w, h);
+    ctx.fillStyle = 'rgba(0,0,0,' + (0.35 * Math.cos(ang)) + ')'; ctx.fillRect(TXp(-4.25) - w, TYp(2.70), w, h);
     ctx.restore();
   }
   // фары в сумерках
@@ -317,7 +317,7 @@ function drawTruckBody(px, py, a, opt) {
 function drawTruck(tr, T) {
   // тень
   const gx = tr.x, gy = T.heightAt(gx), hAbove = Math.max(0, tr.y - gy - 1);
-  const sw = (3.3 - Math.min(2, hAbove * 0.4)) * V.ppm;
+  const sw = (4.0 - Math.min(2.4, hAbove * 0.4)) * V.ppm;
   ctx.fillStyle = 'rgba(0,0,0,' + Math.max(0.08, 0.32 - hAbove * 0.05) + ')';
   ctx.beginPath(); ctx.ellipse(SX(gx), SY(gy) - 2, sw, 0.22 * V.ppm, -Math.atan(T.slopeAt(gx)), 0, Math.PI * 2); ctx.fill();
   const chrome = SAVE.cos.includes('chrome') && SAVE.cosOn.includes('chrome');
@@ -481,10 +481,10 @@ function drawMenuScene(dt) {
   MS.t += dt; MS.theme = menuTheme();
   const spd = 7;
   MS.x += spd * dt; MS.wang += spd / TRUCK.wheelR * dt;
-  const ppm = LAND ? Math.min(APPH / 6.2, APPW / 13) : Math.min(APPW / 7.4, APPH / 9.5);
+  const ppm = LAND ? Math.min(APPH / 6.2, APPW / 15.5) : Math.min(APPW / 8.6, APPH / 9.5);
   V.ppm = ppm; V.sx = 0; V.sy = 0;
   const roadSY = LAND ? APPH * 0.86 : APPH * 0.88;
-  const truckSX = LAND ? APPW * 0.27 : APPW * 0.5;
+  const truckSX = LAND ? APPW * 0.3 : APPW * 0.52;
   V.x = MS.x + (APPW / 2 - truckSX) / ppm; V.y = (roadSY - APPH / 2) / ppm;
   drawLayers(MS.theme, 1, MS.x * 1.6, 0);
   drawFlatRoad(MS.theme, 0);
@@ -494,7 +494,7 @@ function drawMenuScene(dt) {
   // машина
   const bob = Math.sin(MS.t * 9) * 0.015 + Math.sin(MS.t * 2.3) * 0.01;
   const tx = MS.x, ty = TRUCK.com[1] + bob;
-  ctx.fillStyle = 'rgba(0,0,0,.3)'; ctx.beginPath(); ctx.ellipse(SX(tx), SY(0) - 2, 3.2 * ppm, 0.2 * ppm, 0, 0, Math.PI * 2); ctx.fill();
+  ctx.fillStyle = 'rgba(0,0,0,.3)'; ctx.beginPath(); ctx.ellipse(SX(tx - 0.1), SY(0) - 2, 3.9 * ppm, 0.2 * ppm, 0, 0, Math.PI * 2); ctx.fill();
   TRUCK.wheels.forEach(w => drawWheelAt(tx - TRUCK.com[0] + w.x, TRUCK.wheelR, MS.wang, SAVE.cosOn.includes('chrome')));
   drawTruckBody(SX(tx), SY(ty), Math.sin(MS.t * 1.7) * 0.004, { com: TRUCK.com, mood: Math.sin(MS.t * 0.5) > 0.6 ? 'happy' : 'norm', bob: Math.sin(MS.t * 9) * 1.5, cos: SAVE.cosOn, t: MS.t, door: 0, night: MS.theme === 'taiga' });
   // выхлоп
@@ -526,7 +526,7 @@ function drawGarageScene(dt) {
   // календарь и полка с шинами
   ctx.save(); ctx.translate(W * (LAND ? 0.06 : 0.08), H * (LAND ? 0.12 : 0.05));
   ctx.fillStyle = '#f2ece0'; ctx.fillRect(0, 0, 70, 90); ctx.fillStyle = '#d8231a'; ctx.fillRect(0, 0, 70, 40);
-  if (IMG.truck_body) ctx.drawImage(IMG.truck_body, 4, 8, 62, 30);
+  if (IMG.truck_body) ctx.drawImage(IMG.truck_body, 4, 12, 62, 25);
   ctx.fillStyle = '#333'; ctx.font = '11px ' + FONT_N; ctx.textAlign = 'center'; ctx.fillText('2026', 35, 54);
   ctx.strokeStyle = 'rgba(0,0,0,.25)'; ctx.lineWidth = 1; for (let i = 0; i < 4; i++) { ctx.beginPath(); ctx.moveTo(6, 62 + i * 7); ctx.lineTo(64, 62 + i * 7); ctx.stroke(); }
   ctx.restore();
@@ -542,9 +542,9 @@ function drawGarageScene(dt) {
   ctx.fillStyle = lg; ctx.beginPath(); ctx.moveTo(lx - 20, 40); ctx.lineTo(lx + 20, 40); ctx.lineTo(lx + W * 0.45, floorY + 40); ctx.lineTo(lx - W * 0.45, floorY + 40); ctx.closePath(); ctx.fill();
   ctx.fillStyle = '#fff8d0'; ctx.beginPath(); ctx.arc(lx, 42, 6, 0, Math.PI * 2); ctx.fill();
   // Газель
-  const ppm = LAND ? Math.min(H / 5.2, W * 0.55 / 6.6) : Math.min(W / 7, H * 0.34 / 3.3);
+  const ppm = LAND ? Math.min(H / 5.2, W * 0.55 / 7.9) : Math.min(W / 8.3, H * 0.34 / 3.3);
   V.ppm = ppm; V.sx = 0; V.sy = 0; V.x = 0; V.y = 0;
-  const cx = lx, cy = floorY + 0.06 * ppm;
+  const cx = lx + 0.68 * ppm, cy = floorY + 0.06 * ppm;
   const toS = (lx2, ly2) => [cx + lx2 * ppm, cy - ly2 * ppm];
   TRUCK.wheels.forEach(w => { const [wx, wy] = toS(w.x, TRUCK.wheelR); const s = TRUCK.wheelR * 2 * ppm * 256 / 250; const img = SAVE.cosOn.includes('chrome') ? IMG.wheel_chrome : IMG.wheel; if (img) { ctx.save(); ctx.translate(wx, wy); ctx.rotate(GS.t * 0.3); ctx.drawImage(img, -s / 2, -s / 2, s, s); ctx.restore(); } });
   const [bx, by] = toS(TRUCK.com[0], TRUCK.com[1] + Math.sin(GS.t * 2) * 0.004);
@@ -558,7 +558,7 @@ function makeShareCard(title, line2) {
     const gr = g.createLinearGradient(0, 0, 0, 450); gr.addColorStop(0, '#3d8fe0'); gr.addColorStop(1, '#dff0ff'); g.fillStyle = gr; g.fillRect(0, 0, 800, 450);
     if (IMG.bg_summer_far) g.drawImage(IMG.bg_summer_far, 0, 0, 1200, 450);
     g.fillStyle = '#3a3c40'; g.fillRect(0, 380, 800, 70);
-    if (IMG.truck_body) g.drawImage(IMG.truck_body, 330, 180, 440, 214);
+    if (IMG.truck_body) g.drawImage(IMG.truck_body, 300, 200, 480, 197);
     if (IMG.logo) g.drawImage(IMG.logo, 10, 10, 360, 170);
     g.fillStyle = 'rgba(0,0,0,.55)'; g.fillRect(20, 300, 420, 70);
     g.fillStyle = '#ffd23a'; g.font = '30px ' + FONT; g.fillText(title, 34, 336);

diff --git a/js/physics.js b/js/physics.js
@@ -4,13 +4,13 @@
 // =====================================================================
 'use strict';
 const TRUCK = {
-  M: 2000, I: 6700, G: 9.81,
-  com: [-0.25, 1.0],                     // центр масс в координатах кузова (земля под машиной — y=0)
+  M: 2000, I: 9600, G: 9.81,
+  com: [-0.6, 1.0],                     // центр масс в координатах кузова (земля под машиной — y=0)
   wheelR: 0.37, mountY: 0.82, L0: 0.58, Lmin: 0.27, Iw: 3.2,
-  wheels: [{ x: -1.25, k: 1.4, drive: true }, { x: 1.65, k: 0.76, drive: false }],
+  wheels: [{ x: -1.85, k: 1.38, drive: true }, { x: 1.65, k: 0.82, drive: false }],
   hull: [
-    [-3.10, 0.52, 0], [-3.06, 1.6, 0], [-3.05, 2.70, 2], [-1.3, 2.72, 2], [0.40, 2.70, 2], [0.62, 2.24, 1], [1.55, 2.26, 1], [1.18, 2.02, 1],
-    [2.12, 1.52, 0], [2.84, 1.30, 0], [2.96, 0.72, 0], [2.86, 0.48, 0], [1.0, 0.62, 0], [0.30, 0.47, 0], [-0.9, 0.62, 0], [-2.2, 0.62, 0]
+    [-4.30, 0.52, 0], [-4.26, 1.6, 0], [-4.25, 2.70, 2], [-2.9, 2.72, 2], [-1.3, 2.72, 2], [0.40, 2.70, 2], [0.62, 2.24, 1], [1.55, 2.26, 1], [1.18, 2.02, 1],
+    [2.12, 1.52, 0], [2.84, 1.30, 0], [2.96, 0.72, 0], [2.86, 0.48, 0], [1.0, 0.62, 0], [0.30, 0.47, 0], [-0.9, 0.62, 0], [-2.6, 0.62, 0], [-3.5, 0.62, 0]
   ],
   airTorque: 7600, brake: 15000
 };

diff --git a/js/world.js b/js/world.js
@@ -200,7 +200,7 @@ function openDoors(n) {
   const tr = G.truck, cg = curCargo();
   say('lost', 'scared', true);
   for (let i = 0; i < n; i++) {
-    const [hx, hy] = tr.toWorld(-3.15, 1.4 + i * 0.4);
+    const [hx, hy] = tr.toWorld(-4.35, 1.4 + i * 0.4);
     const img = pick(cg.items);
     G.items.push({ img, x: hx, y: hy, vx: tr.vx * 0.4 - rnd(1.5, 4), vy: tr.vy * 0.5 + rnd(1.5, 4), rot: 0, vr: rnd(-6, 6), t: 0, life: 6, size: (cg.single ? cg.size * 0.8 : cg.size) * rnd(0.85, 1.1), mode: cg.eject, splat: cg.splat, sound: cg.sound, bounces: 0, frame: 0 });
     damageCargo(rnd(3, 5));
@@ -242,7 +242,7 @@ function truckLocal(x, y) {
 }
 function hitsTruck(x, y, pad) {
   const [lx, ly] = truckLocal(x, y);
-  return lx > -3.15 - pad && lx < 2.98 + pad && ly > 0.3 - pad && ly < 2.75 + pad;
+  return lx > -4.35 - pad && lx < 2.98 + pad && ly > 0.3 - pad && ly < 2.75 + pad;
 }
 function updateEntities(dt, tr) {
   const ents = G.T.ents, x0 = tr.x - 60, x1 = tr.x + 90;

diff --git a/css/style.css b/css/style.css
@@ -203,7 +203,7 @@ img { -webkit-user-drag: none; user-select: none; }
 .dj.show { opacity: 1; }
 .dj b { font-family: var(--font); font-weight: 400; font-size: 13px; color: var(--yellow); }
 .radio .ico { width: 30px; height: 30px; }
-#app.land .dj { top: 64px; }
+#app.land .dj { top: 128px; }
 .timers { position: absolute; left: 10px; top: 100px; display: flex; flex-direction: column; gap: 6px; }
 .tm { display: none; align-items: center; gap: 6px; padding: 3px 8px 3px 3px; border-radius: 16px; background: rgba(14, 16, 20, .72); }
 .tm.show { display: flex; }
